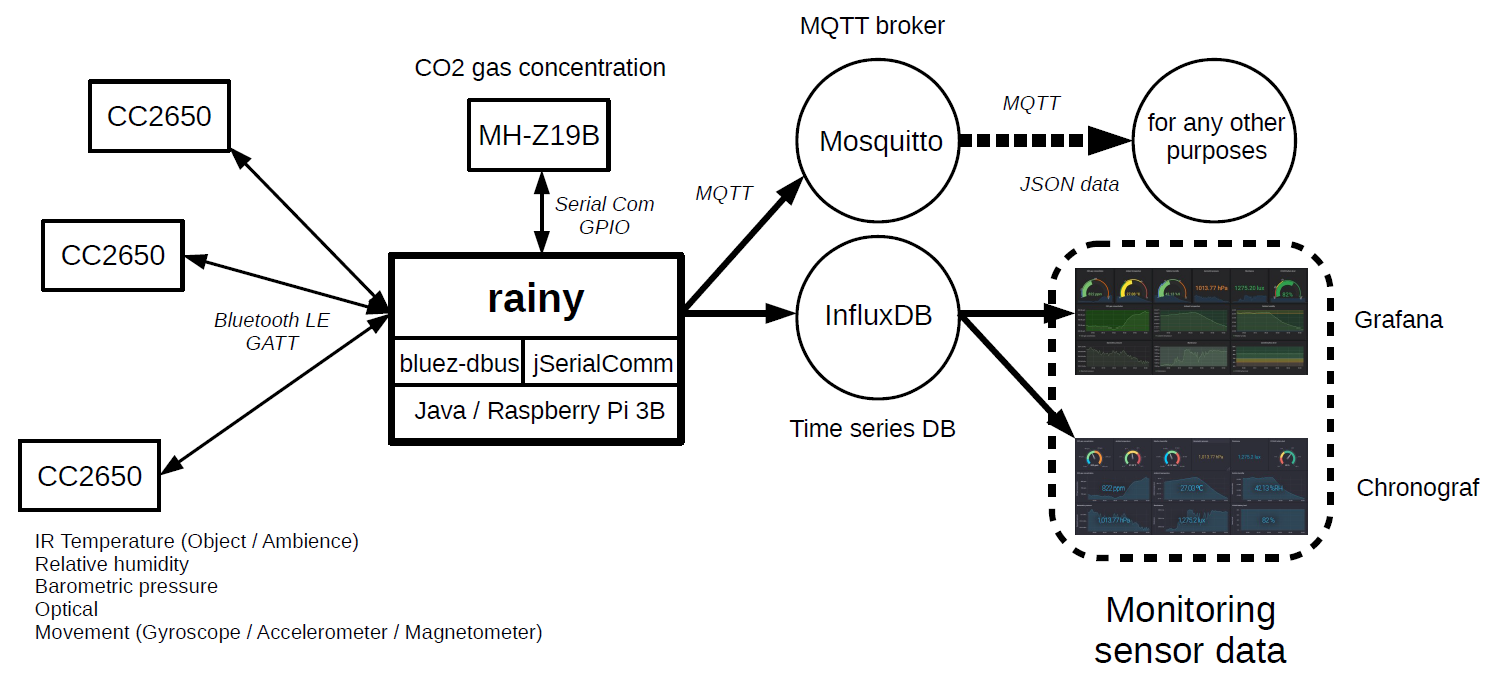
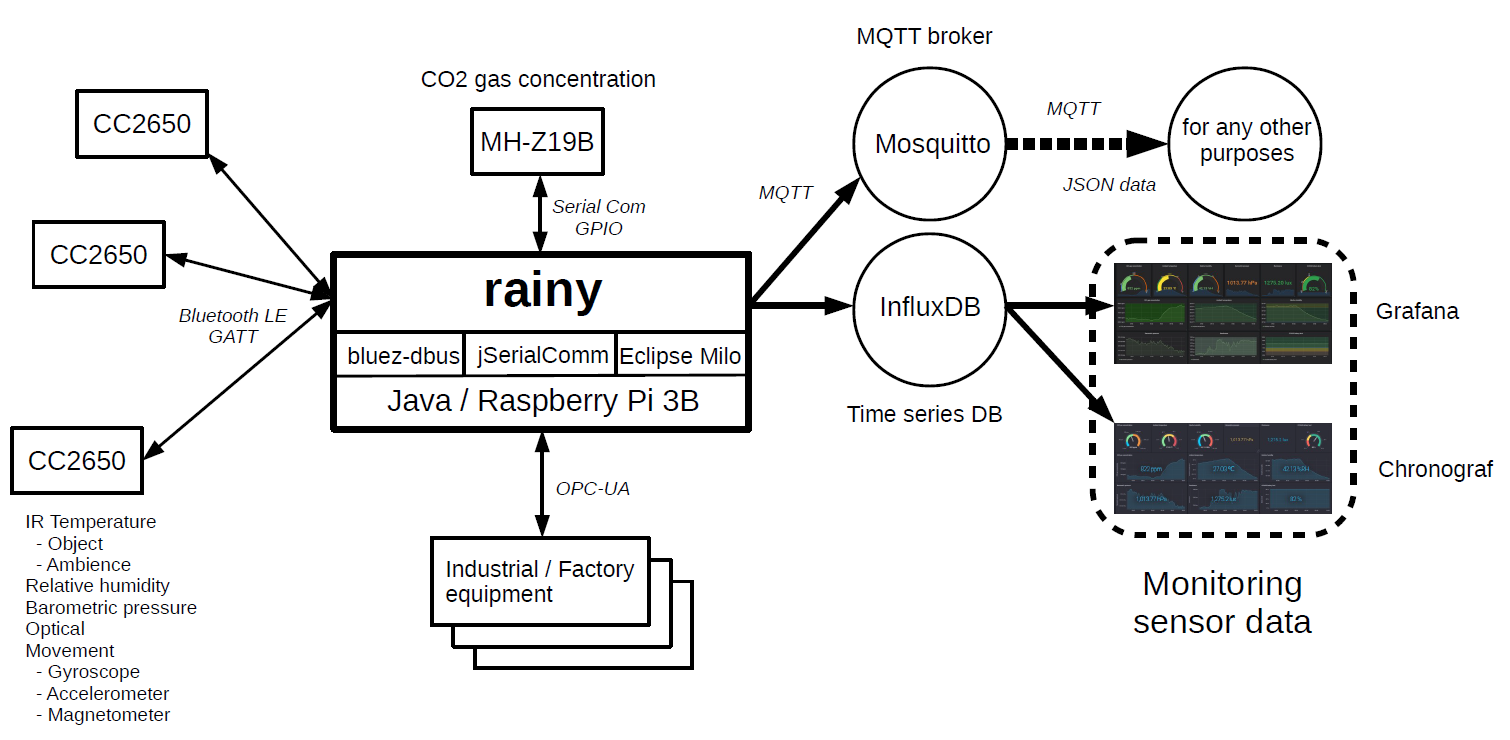
Update README.md

diff --git a/README.md b/README.md
@@ -1,6 +1,8 @@
 # rainy - a tiny tool for iot data collection and monitoring
 rainy is a tiny tool for IoT data collection and monitoring.
 rainy supports [TI SensorTag CC2650](http://processors.wiki.ti.com/index.php/CC2650_SensorTag_User's_Guide) and [MH-Z19B](https://www.winsen-sensor.com/d/files/infrared-gas-sensor/mh-z19b-co2-ver1_0.pdf) as IoT devices, communicates with CC2650 by [bluez-dbus](https://github.com/hypfvieh/bluez-dbus), and communicates with MH-Z19B by [jSerialComm](https://github.com/Fazecast/jSerialComm), and acquires each data.
+And it corresponds to OPC-UA which is a protocol of industrial automation.
+I use [Eclipse Milo](https://github.com/eclipse/milo) for the OPC-UA Protocol Stack and SDK (Java).
 These data can be sent to [InfluxDB](https://www.influxdata.com/) (Time Series Database) for visualization, or sent to MQTT Broker to be used as a data source for any other purposes.
 
 rainy runs on [Apache Felix](https://felix.apache.org/) (OSGi). I think that rainy can be embedded in the environment without OSGi.
@@ -30,6 +32,8 @@ The following figure is overview of rainy.
   - [Setting sensors](#setting_sensors)
     - [CC2650 - cc2650.properties](#cc2650_properties)
     - [MH-Z19B - mhz19b.properties](#mhz19b_properties)
+    - [OPC-UA - opcua.properties](#opcua_properties)
+      - [OPC-UA server - conf/opcua/milo-example.properties](#opcua_server_properties)
 - [Run rainy](#run_rainy)
   - [Output sensor values to the log file](#output_sensor_value)
   - [Check the database name for each device created in InfluxDB](#check_database)
@@ -107,6 +111,8 @@ I am using [Chronograf](https://www.influxdata.com/time-series-platform/chronogr
   Set to true when using CC2650. default is `false`.
 - **`mhz19b`**  
   Set to true when using MH-Z19B. default is `false`.
+- **`opcua`**  
+  Set to true when using OPC-UA. default is `false`.
 
 <h3 id="setting_connection_sending_data">Setting the connection for sending data</h3>
   
@@ -130,7 +136,7 @@ I am using [Chronograf](https://www.influxdata.com/time-series-platform/chronogr
 - `topic`  
   Topic when publishing data to MQTT broker. default is `rainy`.
 
-<h3 id="setting_sensors">Setting sensors<h3>
+<h3 id="setting_sensors">Setting sensors and protocols<h3>
 
 <h4 id="cc2650_properties">CC2650 - cc2650.properties</h4>
 
@@ -212,6 +218,62 @@ After launching `hcitool` command, press the power button of CC2650 and the scan
 - `readCrontab`  
   Set the schedule for sensing data in crontab format. default is every minute.
 
+<h4 id="opcua_properties">OPC-UA - opcua.properties</h4>
+
+- **`influxDB`**  
+  Set to true when sending data to InfluxDB. default is `false`.
+- **`mqtt`**  
+  Set to true when sending data to MQTT broker. default is `false`.
+- `prettyPrinting`  
+  Set to true when indenting the log output of JSON format data. default is `false`.
+- `keyStoreType`
+- `keyStoreAlias`
+- `keyStorePassword`
+- `certificate`
+
+<h5 id="opcua_server_properties">OPC-UA server - conf/opcua/milo-example.properties</h5>
+
+The following is an example of [Public Demo Server of Eclipse Milo](https://github.com/eclipse/milo).
+- **`use`**  
+  Set to true to use this server. default is `false`.
+- **`serverName`**  
+  Set the OPC-UA server name.
+- **`endpointIP`**  
+  Set the OPC-UA server address.
+- **`endpointPort`**  
+  Set the OPC-UA server port number.
+- `securityPolicy`  
+  Set one of Basic128Rsa15, Basic256, Basic256Sha256, or None in securityPolicy. default is `None`.
+- `securityMode`  
+  Set one of Sign, SignAndEncrypt, or None to securityMode. default is `None`.
+- `userName`
+- `password`
+- `requestTimeout`  
+  default is `1000` (msec).
+- `sessionTimeout`  
+  default is `1000` (msec).
+- `publishingInterval`  
+  Set publishingInterval (msec). default is `1000` (msec).
+- `samplingInterval`  
+  Set samplingInterval (msec). default is `500` (msec).
+- `queueSize`  
+  Set queueSize. default is `10`.
+- `dataChangeTrigger`  
+  Set one of 0[DataChangeTrigger.Status], 1[DataChangeTrigger.StatusValue] or 2[DataChangeTrigger.StatusValueTimestamp] to dataChangeTrigger. default is `1`[DataChangeTrigger.StatusValue].
+- **`nodeIDs`**  
+  List the target node ID. The format is as follows.
+  ```
+  <namespaceIndex>,<identifier>,<depth>
+  ```
+  ```
+  nodeIDs=2,Dynamic/RandomInt32,0 \
+	  2,Dynamic/RandomInt64,0 \
+	  2,Dynamic,-1
+  ```
+  In the above example, specify `2,Dynamic/RandomInt32` and `2,Dynamic/RandomInt64` uniquely, and search for the NodeID to be monitored from `2,Dynamic` at an infinite depth. In this case, only `2,Dynamic,-1` should be specified, but I wrote it for explanation of the format.  
+  
+For reference, there is [toem impulse (Eclipse pulug-in)](https://toem.de/index.php/projects/impulse) as a tool for easily checking the address space of OPC-UA server.
+
 <h2 id="run_rainy">Run rainy</h2>
 
 - start  
@@ -228,32 +290,55 @@ WARNING: All illegal access operations will be denied in a future release
 START LEVEL 1
    ID   State         Level  Name
 [   0] [Active     ] [    0] System Bundle (6.0.3)
-[   1] [Active     ] [    1] bluetooth scanner (0.1.1)
-[   2] [Active     ] [    1] bluez-dbus-osgi (0.1.2.201908052042)
-[   3] [Active     ] [    1] java driver for ti sensortag cc2650 (0.1.0)
-[   4] [Active     ] [    1] Apache Commons Lang (3.9.0)
-[   5] [Active     ] [    1] cron4j-osgi (2.2.5)
-[   6] [Active     ] [    1] dbus-java-with-java-utils-osgi (3.0.2)
-[   7] [Active     ] [    1] Java client for InfluxDB (2.15)
-[   8] [Active     ] [    1] jSerialComm (2.5.1)
-[   9] [Active     ] [    1] Jackson-annotations (2.9.9)
-[  10] [Active     ] [    1] Jackson-core (2.9.9)
-[  11] [Active     ] [    1] jackson-databind (2.9.9.1)
-[  12] [Active     ] [    1] java driver for mh-z19b - intelligent infrared co2 module (0.1.1)
-[  13] [Active     ] [    1] A modern JSON library for Kotlin and Java (1.7.0)
-[  14] [Active     ] [    1] MessagePack serializer implementation for Java (0.8.17)
-[  15] [Active     ] [    1] Apache Felix Shell Service (1.4.3)
-[  16] [Active     ] [    1] Apache Felix Shell TUI (1.4.1)
-[  17] [Active     ] [    1] Apache ServiceMix :: Bundles :: jsr305 (3.0.2.1)
-[  18] [Active     ] [    1] Apache ServiceMix :: Bundles :: okhttp (3.14.1.1)
-[  19] [Active     ] [    1] Apache ServiceMix :: Bundles :: okio (1.15.0.1)
-[  20] [Active     ] [    1] Apache ServiceMix :: Bundles :: retrofit (2.5.0.2)
-[  21] [Active     ] [    1] Paho MQTT Client (1.2.1)
-[  22] [Active     ] [    1] OSGi LogService implemented over SLF4J (1.7.26)
-[  23] [Active     ] [    1] osgi activator of rainy - a tiny tool for iot data collection and monitoring (0.1.1)
-[  24] [Active     ] [    1] rainy - a tiny tool for iot data collection and monitoring (0.1.2)
-[  25] [Active     ] [    1] slf4j-api (1.7.26)
-[  26] [Resolved   ] [    1] slf4j-jdk14 (1.7.26)
+[   1] [Active     ] [    1] bcpkix (1.62)
+[   2] [Active     ] [    1] bcprov (1.62)
+[   3] [Active     ] [    1] bluetooth scanner (0.1.1)
+[   4] [Active     ] [    1] bluez-dbus-osgi (0.1.2.201908052042)
+[   5] [Active     ] [    1] bsd-parser-core-osgi (0.3.2)
+[   6] [Active     ] [    1] bsd-parser-gson-osgi (0.3.2)
+[   7] [Active     ] [    1] java driver for ti sensortag cc2650 (0.1.0)
+[   8] [Active     ] [    1] Apache Commons Lang (3.9.0)
+[   9] [Active     ] [    1] cron4j-osgi (2.2.5)
+[  10] [Active     ] [    1] dbus-java-with-java-utils-osgi (3.0.2)
+[  11] [Active     ] [    1] Gson (2.8.5)
+[  12] [Active     ] [    1] Guava: Google Core Libraries for Java (26.0.0.jre)
+[  13] [Active     ] [    1] Java client for InfluxDB (2.15)
+[  14] [Active     ] [    1] jSerialComm (2.5.1)
+[  15] [Active     ] [    1] Jackson-annotations (2.9.9)
+[  16] [Active     ] [    1] Jackson-core (2.9.9)
+[  17] [Active     ] [    1] jackson-databind (2.9.9.1)
+[  18] [Active     ] [    1] JavaBeans Activation Framework (1.2.0)
+[  19] [Active     ] [    1] jaxb-api (2.4.0.b1808300359)
+[  20] [Active     ] [    1] file:/home/pi/rainy-felix/bundle/jaxb-runtime-2.4.0-b180830.0438.jar
+[  21] [Active     ] [    1] java driver for mh-z19b - intelligent infrared co2 module (0.1.1)
+[  22] [Active     ] [    1] A modern JSON library for Kotlin and Java (1.7.0)
+[  23] [Active     ] [    1] MessagePack serializer implementation for Java (0.8.17)
+[  24] [Active     ] [    1] Netty/Buffer (4.1.38.Final)
+[  25] [Active     ] [    1] netty-channel-fsm-osgi (0.3.0)
+[  26] [Active     ] [    1] Netty/Codec (4.1.38.Final)
+[  27] [Active     ] [    1] Netty/Codec/HTTP (4.1.38.Final)
+[  28] [Active     ] [    1] Netty/Common (4.1.38.Final)
+[  29] [Active     ] [    1] Netty/Handler (4.1.38.Final)
+[  30] [Active     ] [    1] Netty/Resolver (4.1.38.Final)
+[  31] [Active     ] [    1] Netty/Transport (4.1.38.Final)
+[  32] [Active     ] [    1] Apache Felix Shell Service (1.4.3)
+[  33] [Active     ] [    1] Apache Felix Shell TUI (1.4.1)
+[  34] [Active     ] [    1] Apache ServiceMix :: Bundles :: jsr305 (3.0.2.1)
+[  35] [Active     ] [    1] Apache ServiceMix :: Bundles :: okhttp (3.14.1.1)
+[  36] [Active     ] [    1] Apache ServiceMix :: Bundles :: okio (1.15.0.1)
+[  37] [Active     ] [    1] Apache ServiceMix :: Bundles :: retrofit (2.5.0.2)
+[  38] [Active     ] [    1] Paho MQTT Client (1.2.1)
+[  39] [Active     ] [    1] OSGi LogService implemented over SLF4J (1.7.26)
+[  40] [Active     ] [    1] osgi activator of rainy - a tiny tool for iot data collection and monitoring (0.1.2)
+[  41] [Active     ] [    1] OPC-UA bundle of rainy - a tiny tool for iot data collection and monitoring (0.1.0)
+[  42] [Active     ] [    1] rainy - a tiny tool for iot data collection and monitoring (0.1.3)
+[  43] [Active     ] [    1] sdk-client-osgi (0.3.2)
+[  44] [Active     ] [    1] sdk-core-osgi (0.3.2)
+[  45] [Active     ] [    1] slf4j-api (1.7.26)
+[  46] [Resolved   ] [    1] slf4j-jdk14 (1.7.26)
+[  47] [Active     ] [    1] stack-client-osgi (0.3.2)
+[  48] [Active     ] [    1] stack-core-osgi (0.3.2)
+[  49] [Active     ] [    1] strict-machine-osgi (0.1.0)
 -> 
 ```
 
@@ -292,13 +377,15 @@ In order to reduce writing to the SD card, it is usually recommended to set it t
 
 <h3 id="check_database">Check the database name for each device created in InfluxDB</h3>
 
-Check from the log file `logs/rainy.log.0`. In the following example, databases `RP3B_01__dev_ttyAMA0` for MH-Z19B, `B0_B4_48_B9_92_86` and `B0_B4_48_ED_B6_04` for CC2650 were created. Note that InfluxDB will not do anything if the database already exists.
+Check from the log file `logs/rainy.log.0`. In the following example, databases `RP3B_01__dev_ttyAMA0` for MH-Z19B, `B0_B4_48_B9_92_86` and `B0_B4_48_ED_B6_04` for CC2650 and `milo_digitalpetri_com_62541_milo` for Public Demo Server of Eclipse Milo were created. Note that InfluxDB will not do anything if the database already exists.
 ```
 execute - CREATE DATABASE RP3B_01__dev_ttyAMA0
 ...
 execute - CREATE DATABASE B0_B4_48_B9_92_86
 ...
 execute - CREATE DATABASE B0_B4_48_ED_B6_04
+...
+execute - CREATE DATABASE milo_digitalpetri_com_62541_milo
 ```
 These database names are required for the visualization tools Grafana and Chronograf to connect to InfluxDB.
 
@@ -310,13 +397,27 @@ Visualization tools can be connected to InfluxDB to monitor time-series sensor d
 
 Please refer to Getting started of [Grafana site](https://grafana.com/docs/) for how to use Grafana.  
 The following figure is a sample image of a dashboard.
+
 <img src="./images/rainy_grafana_0.png" title="./images/rainy_grafana_0.png" width=800px></img>
 
 <h3 id="case_chronograf">Case Chronograf</h3>
 
 Please refer to Getting started of [Chronograf site](https://docs.influxdata.com/chronograf/v1.7/) for how to use Chronograf.  
 The following figure is a sample image of a dashboard.
+
 <img src="./images/rainy_chronograf_0.png" title="./images/rainy_chronograf_0.png" width=800px></img>
+
+The following figure is a sample dashboard for the following NodeIDs on Public Demo Server of Eclipse Milo.  
+- `2,Dynamic/RandomInt32`
+- `2,Dynamic/RandomInt64`
+- `2,Dynamic/RandomFloat`
+- `2,Dynamic/RandomDouble`  
+
+<img src="./images/rainy_opcua_0.png" title="./images/rainy_opcua_0.png" width=800px></img>
+
+The upper displays `2,Dynamic/RandomFloat` and `2,Dynamic/RandomDouble` superimposed. The middle displays`2,Dynamic/RandomInt32` and the lower displays `2,Dynamic/RandomInt64` as time series graphs.
+
+If you put data into InfluxDB which is a time series DB, you can easily create a dashboard using Grafana or Chronograf.
 
 <h2 id="check_mqtt_data">Check the data sent to MQTT broker</h2>
 
@@ -337,6 +438,7 @@ Client mosqsub|2239-u1804 received PUBLISH (d0, q0, r0, m0, 'rainy/B0_B4_48_B9_9
 - Only one Bluetooth adapter can be used.
 - Only a few CC2650 (Bluetooth devices) can be used at the same time. (Restriction of Bluetooth chip)
 - When the connection with CC2650 is lost, it may not recover automatically.
+- Depending on the combination of the number of monitored items of OPC-UA servers and the publishing interval, the load on InfluxDB may become too large.
 
 <h2 id="bundle_list">Bundle list</h2>
 
@@ -344,8 +446,9 @@ The following bundles I created follow the MIT license.
 - [bluetooth-scanner 0.1.1](https://github.com/s5uishida/bluetooth-scanner)
 - [cc2650-driver 0.1.0](https://github.com/s5uishida/cc2650-driver)
 - [mh-z19b-driver 0.1.1](https://github.com/s5uishida/mh-z19b-driver)
-- [rainy-activator 0.1.1](https://github.com/s5uishida/rainy-activator)
-- [rainy 0.1.2](https://github.com/s5uishida/rainy)
+- [rainy-activator 0.1.2](https://github.com/s5uishida/rainy-activator)
+- [rainy-opcua 0.1.0](https://github.com/s5uishida/rainy-opcua)
+- [rainy 0.1.3](https://github.com/s5uishida/rainy)
 
 Please check each license for the following bundles used in addition to these.
 - [SLF4J 1.7.26](https://www.slf4j.org/)
@@ -366,6 +469,22 @@ Please check each license for the following bundles used in addition to these.
 - [Retrofit 2.5.0](https://mvnrepository.com/artifact/org.apache.servicemix.bundles/org.apache.servicemix.bundles.retrofit/2.5.0_2)
 - [Eclipse Paho Client Mqttv3 1.2.1](https://mvnrepository.com/artifact/org.eclipse.paho/org.eclipse.paho.client.mqttv3/1.2.1)
 - [jSerialComm 2.5.1](https://mvnrepository.com/artifact/com.fazecast/jSerialComm/2.5.1)
+- [Netty 4.1.38](https://netty.io/index.html) netty-buffer-4.1.38.Final.jar, netty-codec-4.1.38.Final.jar, netty-codec-http-4.1.38.Final.jar, netty-common-4.1.38.Final.jar, netty-handler-4.1.38.Final.jar, netty-resolver-4.1.38.Final.jar, netty-transport-4.1.38.Final.jar
+- [JAXB API 2.4.0](https://mvnrepository.com/artifact/javax.xml.bind/jaxb-api/2.4.0-b180830.0359)
+- [JAXB Runtime 2.4.0](https://mvnrepository.com/artifact/org.glassfish.jaxb/jaxb-runtime/2.4.0-b180830.0438)
+- [JavaBeans Activation Framework (JAF) 1.2.0](https://mvnrepository.com/artifact/com.sun.activation/javax.activation/1.2.0)
+- [strict-machine-osgi 0.1](https://github.com/s5uishida/strict-machine-osgi)
+- [netty-channel-fsm-osgi 0.3](https://github.com/s5uishida/netty-channel-fsm-osgi)
+- [bsd-parser-core-osgi 0.3.2](https://github.com/s5uishida/bsd-parser-core-osgi)
+- [bsd-parser-gson-osgi 0.3.2](https://github.com/s5uishida/bsd-parser-gson-osgi)
+- [stack-core-osgi 0.3.2](https://github.com/s5uishida/stack-core-osgi)
+- [stack-client-osgi 0.3.2](https://github.com/s5uishida/stack-client-osgi)
+- [sdk-core-osgi 0.3.2](https://github.com/s5uishida/sdk-core-osgi)
+- [sdk-client-osgi 0.3.2](https://github.com/s5uishida/sdk-client-osgi)
+- [Gson 2.8.5](https://mvnrepository.com/artifact/com.google.code.gson/gson/2.8.5)
+- [Bouncy Castle PKIX, CMS, EAC, TSP, PKCS, OCSP, CMP, and CRMF APIs 1.62](https://www.bouncycastle.org/download/bcpkix-jdk15on-162.jar)
+- [Bouncy Castle Provider 1.62](https://www.bouncycastle.org/download/bcprov-jdk15on-162.jar)
+- [Guava: Google Core Libraries for Java 26.0](https://repo1.maven.org/maven2/com/google/guava/guava/26.0-jre/guava-26.0-jre.jar)
 
 I would like to thank the authors of these very useful codes, and all the contributors.
 
